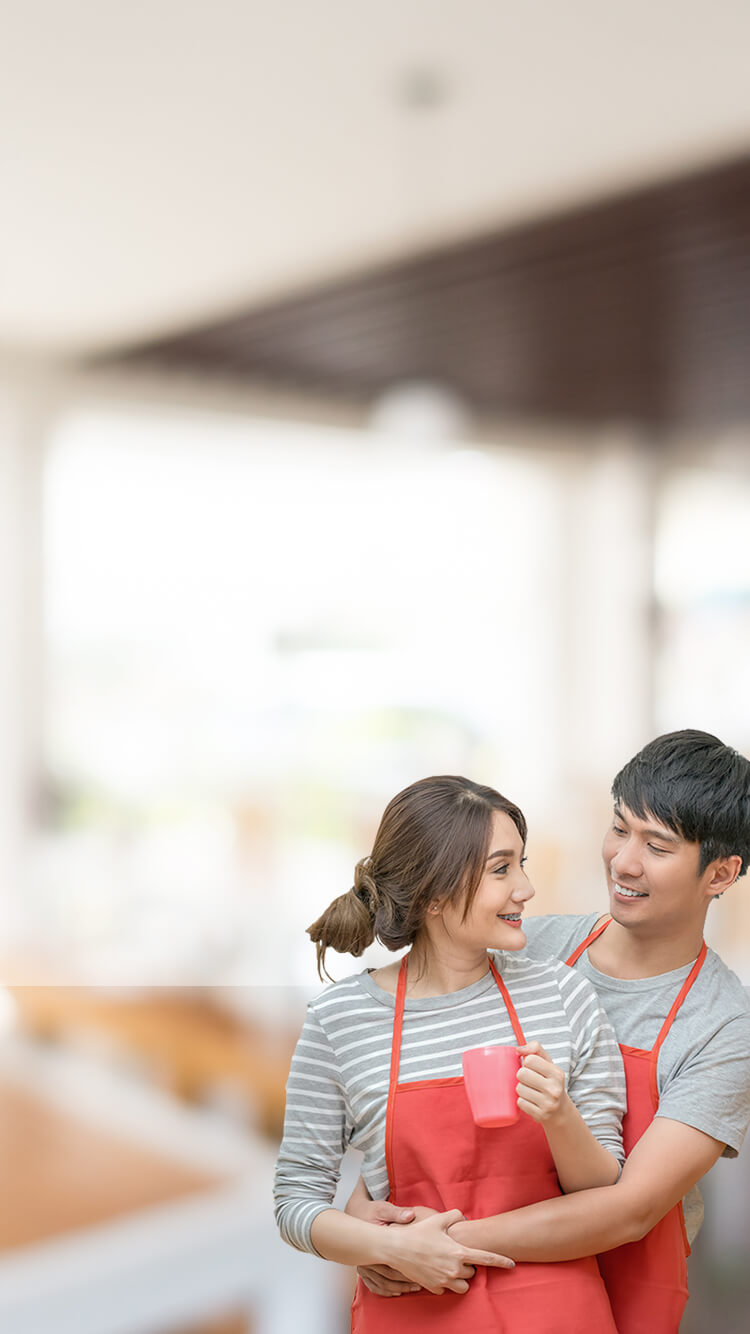
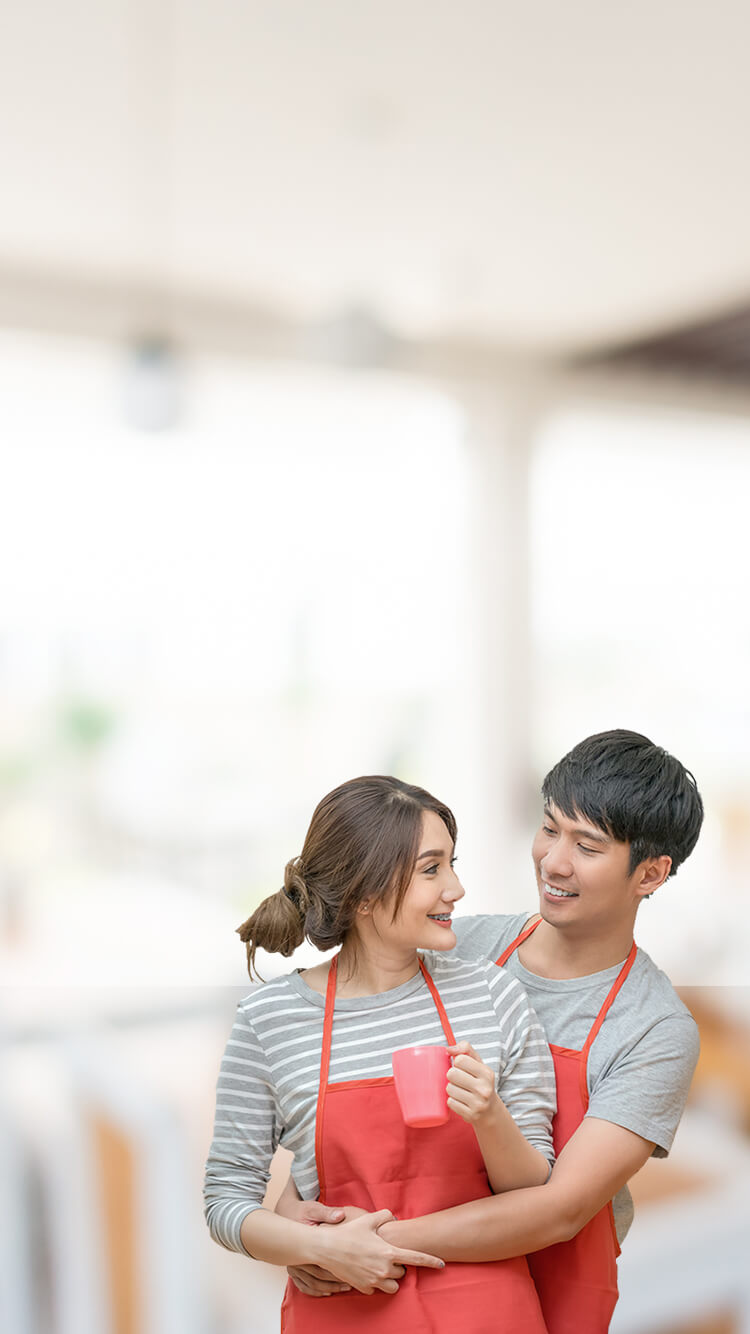
優化圖片

diff --git a/program_id_01.html b/program_id_01.html
@@ -135,7 +135,7 @@
                             二順位房貸
                           </h1>
                           <h4>
-                            好房再貸一波，線上申貸超快速！<br>小老闆晉升大頭家，需要資金來推轉，<br>讓貸先生祝您一臂之力！
+                            好房再貸一波，線上申貸超快速！<br>小老闆晉升大頭家，需要資金來推轉，<br>讓貸先生助您一臂之力！
                           </h4>
                           <p>適用在他行已有房貸，急需資金週轉，<br>可運用原房屋進行第二次貸款</p>
                           <div class="scrollnav">
@@ -156,7 +156,7 @@
                           <h4>
                             房屋就是你的小金庫！<br>房屋變現金，資金調度超方便，<br>貸先生貸您圓滿家倍幸福！
                           </h4>
-                          <p>適用在他行已有房貸，急需資金週轉，<br>可運用原房屋進行第二次貸款</p>
+                          <p>適用已有房屋者，因人生不同階段規劃有資金需求，<br>如：投資/創業/子女教育/裝簧/週轉..等等，實現夢想無需等待</p>
                           <div class="scrollnav">
                             <a class="btn button waves-effect pink darken-1" href="#subscribe">
                               立即申請

diff --git a/assets/css/styles.css b/assets/css/styles.css
@@ -14904,6 +14904,12 @@ body {
   color: var(--v-primarydark-base);
 }
 
+@media (max-width: 599px) {
+  .page-layout-one.house .promo-slider .cover {
+    top: -5vh;
+  }
+}
+
 .page-layout-one.house .promo-slider .item.slider1 {
   background-image: url(../../assets/images/promo/01_pink/images/id01_01.jpg);
 }

diff --git a/src/scss/components/_animate-slider.scss b/src/scss/components/_animate-slider.scss
@@ -156,6 +156,11 @@
 
   &.house {
     .promo-slider {
+      .cover {
+        @include breakpoints-down(xs) {
+          top: -5vh;
+        }
+      }
       .item {
         &.slider1 {
           background-image: url(../../assets/images/promo/01_pink/images/id01_01.jpg);
